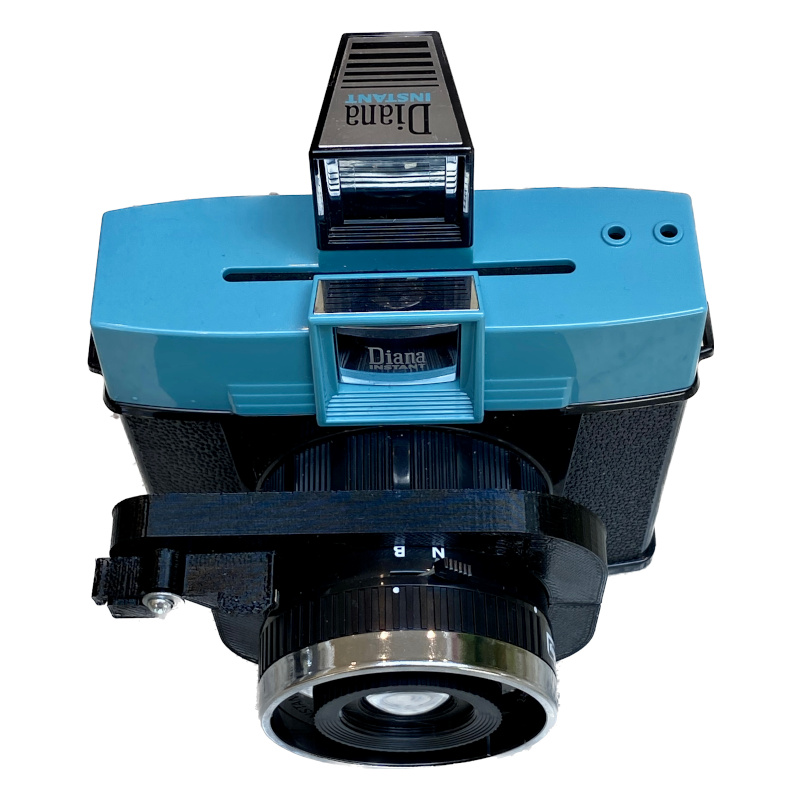
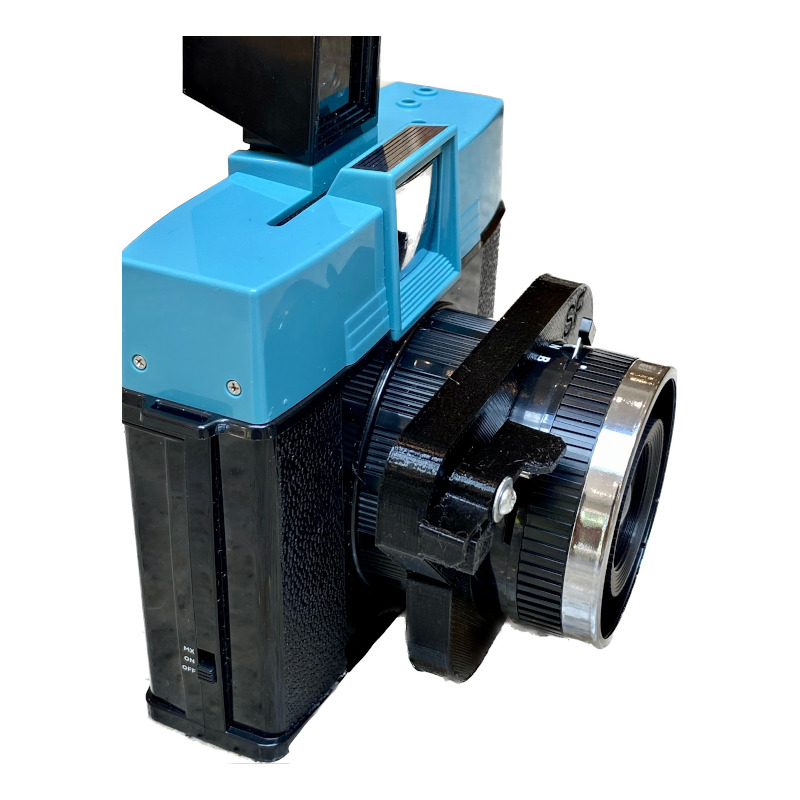
Further photos for Instant Square

diff --git a/diana-instant-square-adapter.md b/diana-instant-square-adapter.md
@@ -33,7 +33,7 @@ Tested with:
 
 ### Images
 {% include my-gallery.html imagesurl="images/diana-instant-square-adapter"
-   filenames="diana-instant-square-adapter-1.jpg,diana-instant-square-adapter-2.jpg,diana-instant-square-adapter-3.jpg,diana-instant-square-adapter-4.jpg,diana-instant-square-adapter-5.jpg,diana-instant-square-adapter-6.jpg,diana-instant-square-adapter-7.jpg,diana-instant-square-adapter-8.jpg,diana-instant-square-adapter-9.jpg,diana-instant-square-adapter-10.jpg" %}
+   filenames="diana-instant-square-adapter-1.jpg,diana-instant-square-adapter-2.jpg,diana-instant-square-adapter-3.jpg,diana-instant-square-adapter-4.jpg,diana-instant-square-adapter-5.jpg,diana-instant-square-adapter-6.jpg,diana-instant-square-adapter-7.jpg,diana-instant-square-adapter-8.jpg,diana-instant-square-adapter-9.jpg,diana-instant-square-adapter-10.jpg,diana-instant-square-adapter-11.jpg" %}
 
 ### Questions
 If you have any questions please get in touch.
